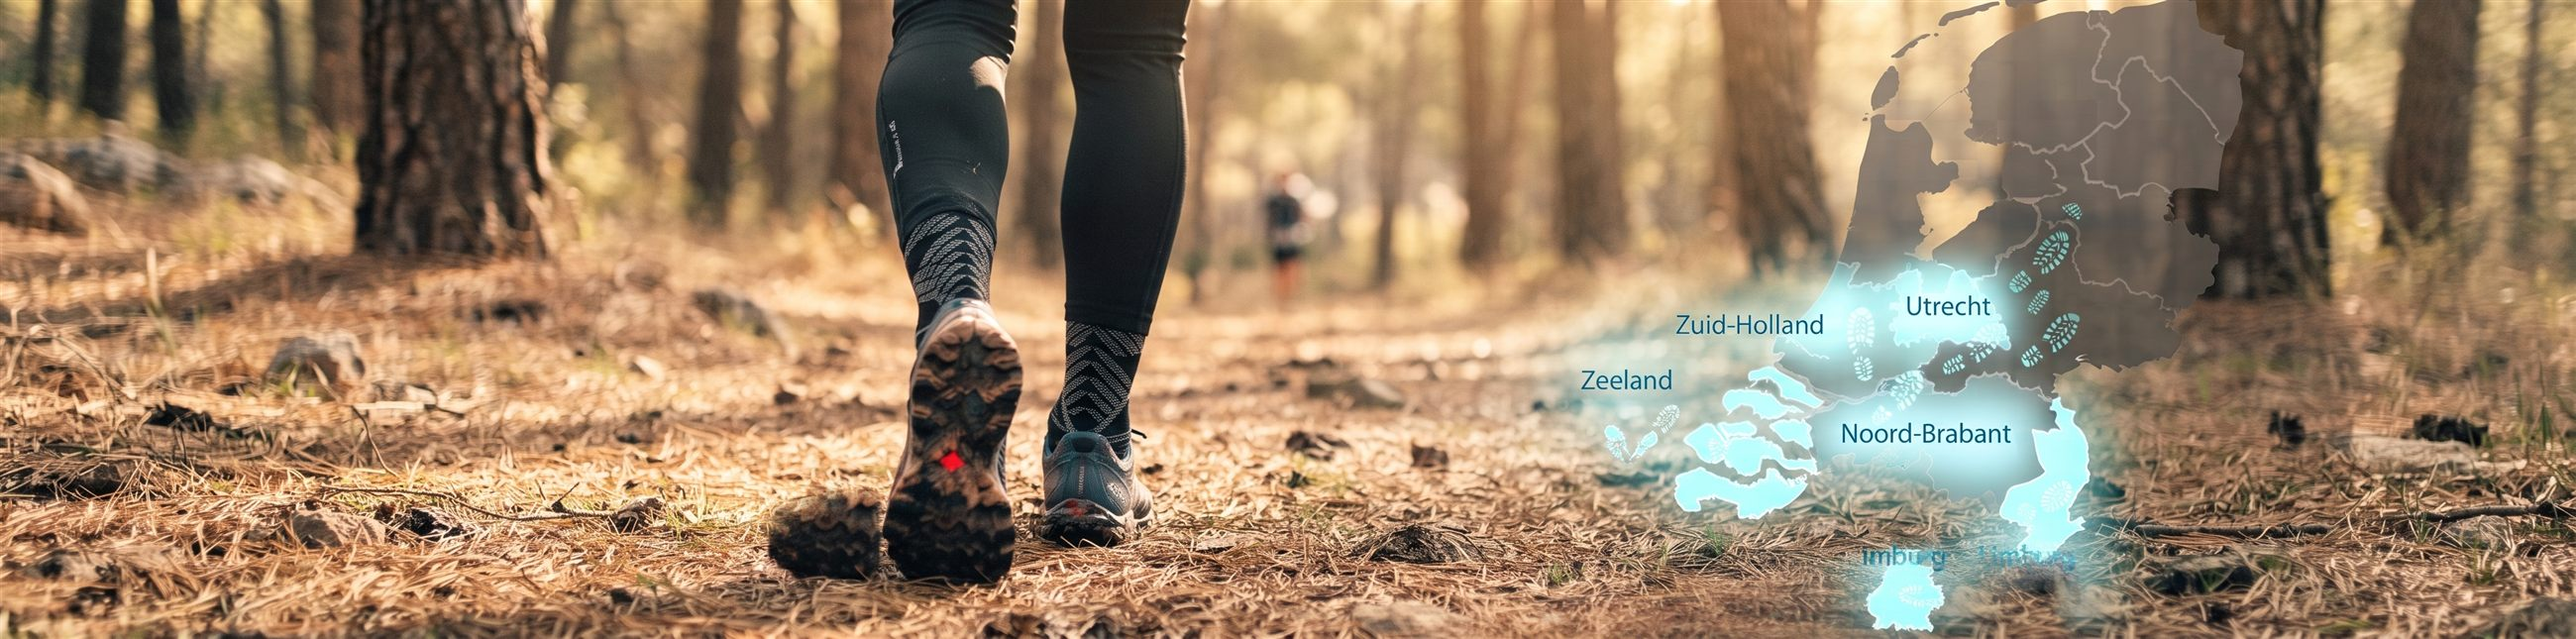
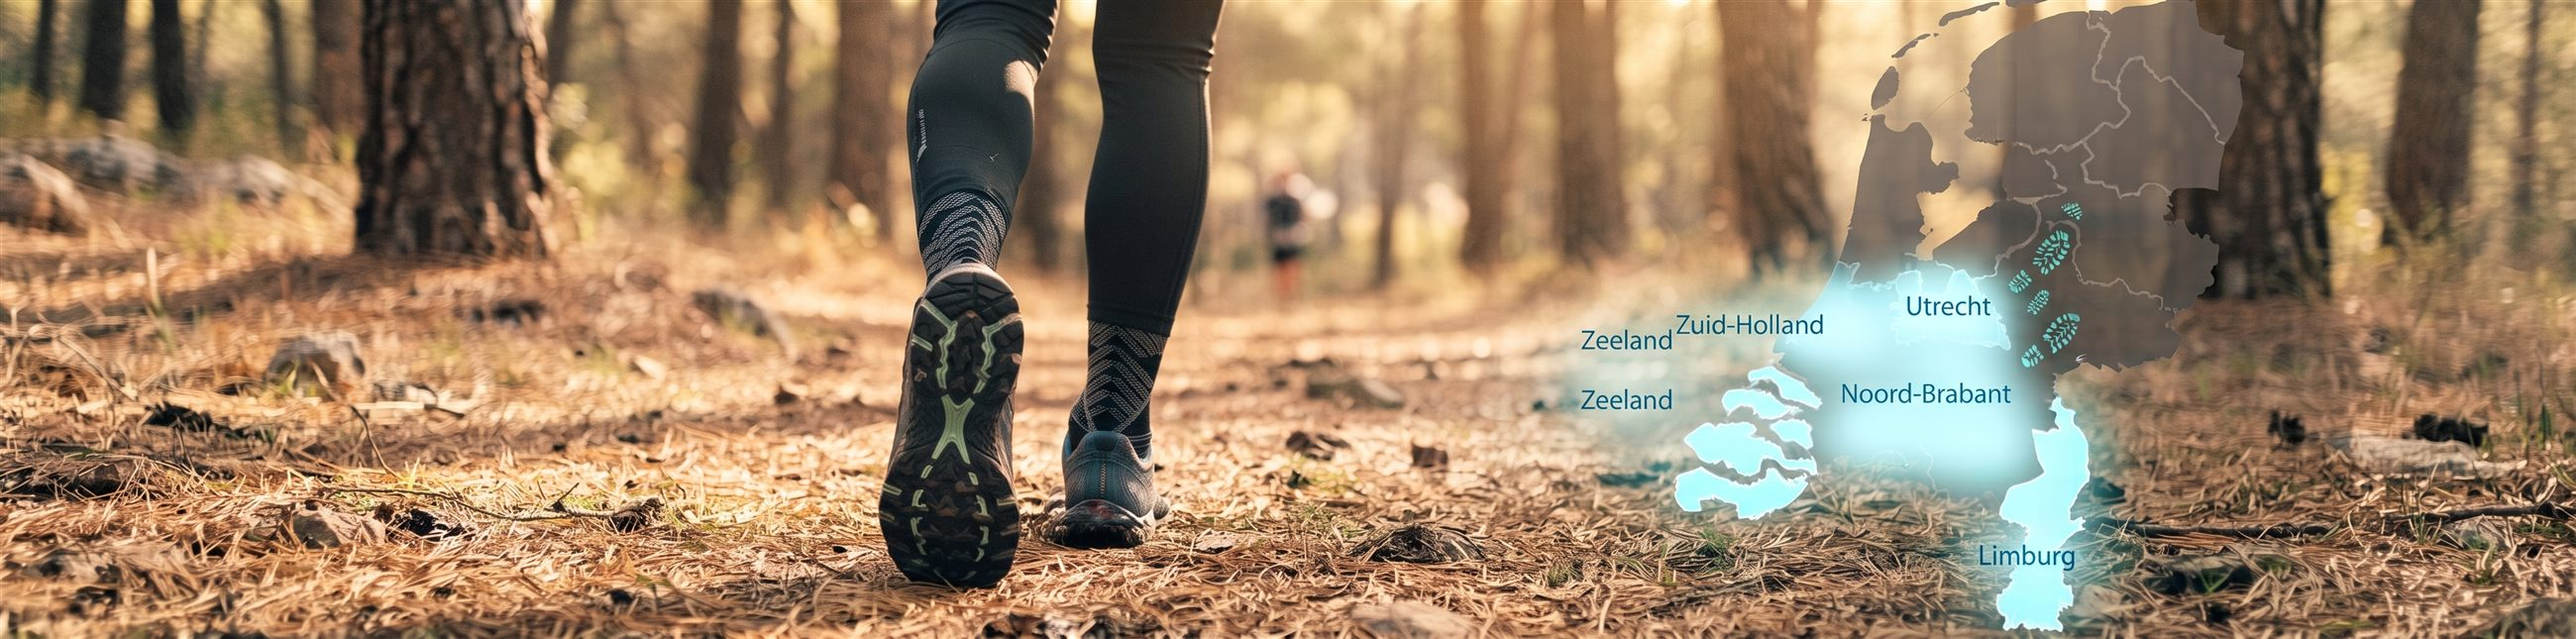
Regio Zuid: BannerZuid2, op mobiel uitsnede naar rechts (loper en kaart)

diff --git a/style.css b/style.css
@@ -756,6 +756,10 @@ a.event-card__price--ext:hover { color: var(--accent); text-decoration: underlin
 .page-header--regio-west { background-position: center 15%; }
 /* Zuid: BannerZuid (4:1), uitsnede iets naar beneden zodat de voeten in beeld blijven */
 .page-header--regio-zuid { background-position: center 70%; }
+/* Zuid op mobiel: uitsnede naar rechts, zodat loper en kaart allebei in beeld zijn */
+@media (max-width: 768px) {
+  .page-header--regio-zuid { background-position: 64% center; }
+}
 /* Noord: altijd de volle hoogte (beide voeten), zijkanten mogen wegvallen */
 .page-header--regio-noord { background-size: auto 100%; background-position: center; background-color: #6E7F86; }
 /* Oost: hele afbeelding (met de kaart) in beeld, met stroken in de randkleur */
